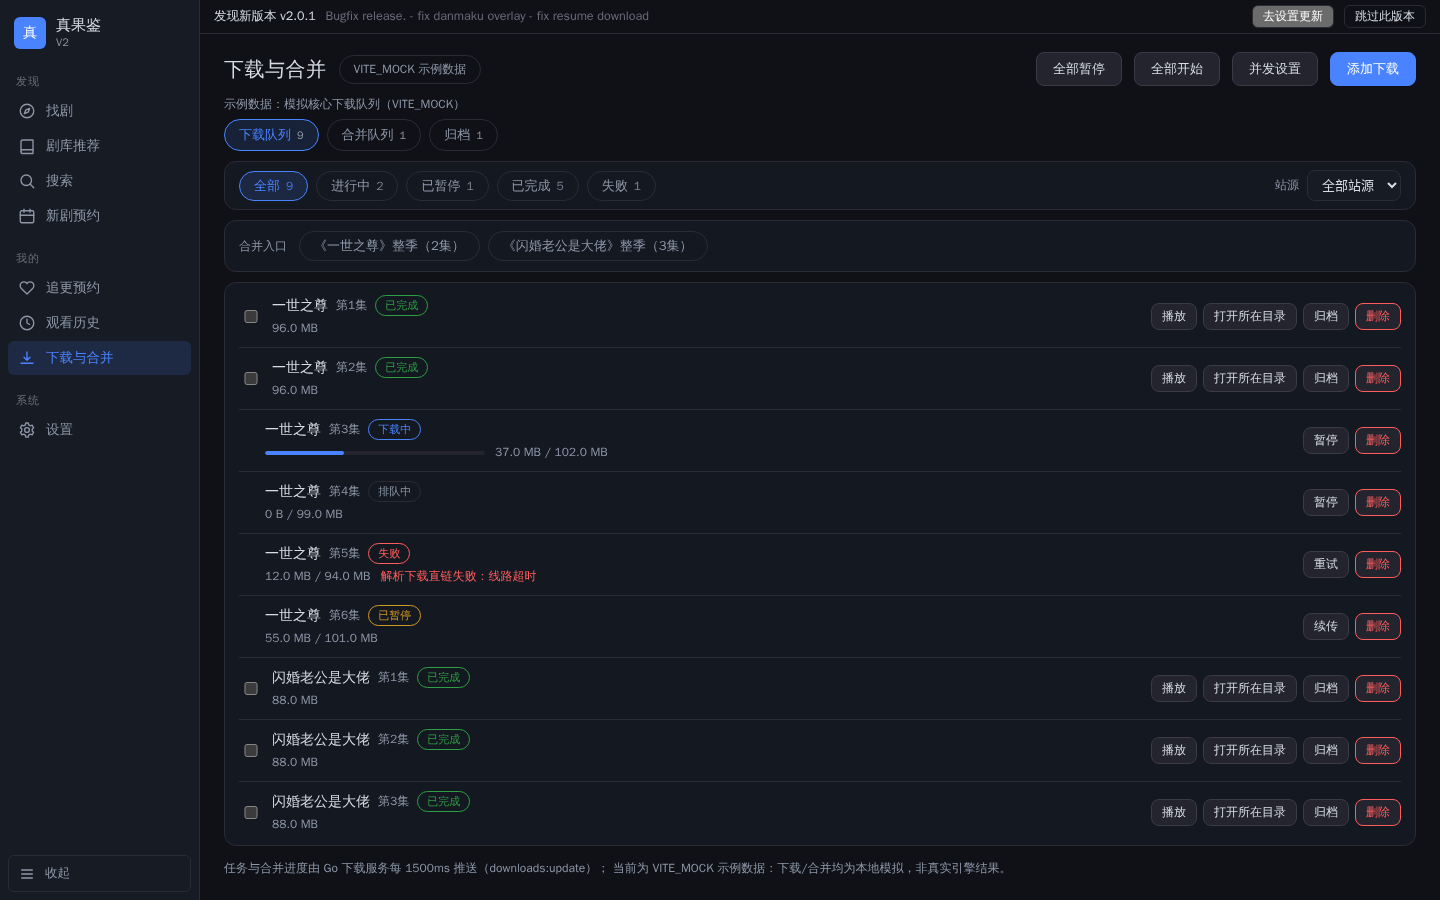
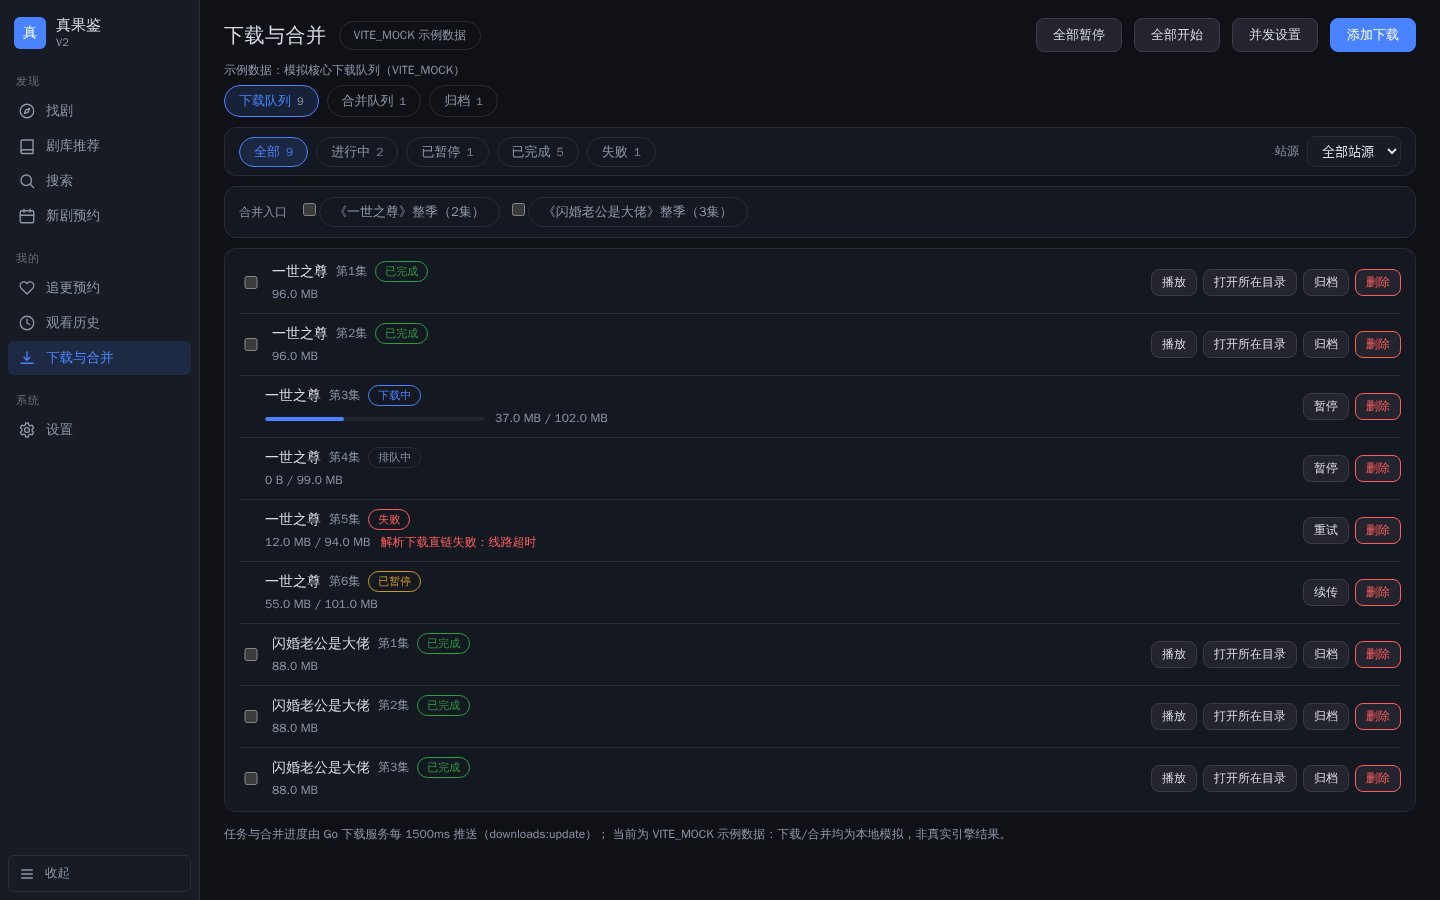
feat(client-v2): 双击「合并」行播放成品（v1 真有的那条）+ 删掉一段照抄来的死代码
先更正事实：v1 没有任何"合并完成后自动播放"的实现
（`grep -rnE "auto_play|autoplay|自动播放"` 全客户端只命中 main.py:2545 一句无关注释；
`_merge_one_done` 与 `_finish_merge_batch` 都只写文本）。
v1 真正做的是**双击**：`downloads.py:1139 itemDoubleClicked` →
`_open_merge_entry` 1495-1498（只认 state=done 且有 output）→ `_play_merged_path` 1631-1640。
v2 之前只把成品路径当文本显示，没有这个入口。

接通方式复用这几天补好的那条路：`api.playerOpenLocal(output, 0)` →
`playerRoute(..., localPath=output)` → 播放器本地分支（不碰 resolve、
选集侧栏不渲染、上下集 disabled、标题「本地播放 <文件名>」）。
`data-testid=merge-row` + `.playable` 标出可双击的行，tooltip 用 v1 原话
「双击这一行可以直接播放」（downloads.py:2095）。

⚠ **删掉了从 v1 抄来的 0.8s 去抖**，也删掉了为它写的断言：
v1 那圈 `if path == last and now - last_at < 0.8: return` 防的是 Qt 的
"a double click reports itself twice"（v1 注释原话）。web 的 `dblclick` 是一次事件，
没有这个现象。我一开始照抄，并给它写了 ⑫——
**把去抖整段摘掉后 ⑫ 照样通过**（实测），那就是恒真断言，
被测的东西在本平台不存在。留一段永不触发、也无法验证的代码配一条永绿的检查，
比不抄更糟。代码与断言都删掉，两处各留一句为什么。
（本任务第四次"绿灯不等于覆盖"：条件式跳过 35 轮、种子值冒充证据 40 轮、
不存在的 testid 40 轮、这次是恒真断言。）

另一处措辞差异登记在对账表：v1 在合并这处说「成品文件不存在：<文件名>」，
在历史/追剧那两处说「本地文件已不存在：<文件名>」——同一件事两句说法。
v2 归一为 `player.localMissing` 一句，是有意的收敛，不是漏做。

验证：typecheck 0、build ✓2.85s、static_scan PASS、i18n_sweep 36/36、
downloads_archive_scan 12/12、`merge_multi_verify` 17 条 ALL PASS（新增 ⑩⑩b⑪a⑪b）。

diff --git a/client-v2/frontend/src/views/DownloadsView.vue b/client-v2/frontend/src/views/DownloadsView.vue
@@ -10,7 +10,7 @@
 import { computed, onMounted, onUnmounted, ref, watch } from 'vue'
 import { useRouter } from 'vue-router'
 import { api, MOCK_MODE } from '@/services/api'
-import type { Chapter, Drama, DownloadEntry, DownloadJobRow } from '@/services/types'
+import type { Chapter, Drama, DownloadEntry, DownloadJobRow, MergeEntryRow } from '@/services/types'
 import { chapterEpisode, playerRoute } from '@/services/dramaRef'
 import { t, tf } from '@/services/i18n'
 import { STAT_GROUPS, statMatch, useDownloadsStore, type StatKey } from '@/stores/downloads'
@@ -218,6 +218,31 @@ async function onMergeMulti() {
   } finally {
     mergingMulti.value = false
   }
+}
+
+/* v1 的双击播放（downloads.py:1139 itemDoubleClicked → _open_merge_entry 1495-1498
+   * → _play_merged_path 1631-1640），v2 之前完全没有这个入口——
+   * 「合并」页签只把成品路径当文本显示出来，看完得自己去开目录。
+   * 走的是本轮刚接通的本地播放那条路（App.PlayerOpenLocal：不 resolve、
+   * 选集侧栏不渲染、上下集禁用、标题「本地播放 <文件名>」）。
+   *
+   * ⚠ 文案：v1 在这里说的是「成品文件不存在：<文件名>」，
+   *   而历史/追剧那两处说的是「本地文件已不存在：<文件名>」——两句不同、同一件事。
+   *   v2 只留一句（`player.localMissing`，由 ApiError.code=local_missing 触发），
+   *   少一句是一处**有意的措辞归一**，不是漏做；这条差异记在
+   *   research/v1-v2-downloads-parity.md，别让下一个人以为还欠一条。
+   *
+   * ⚠ v1 那 0.8s 去抖**没有照搬**：它防的是 Qt 的现象
+   *   （v1 注释原话 "a double click reports itself twice"），
+   *   而 web 的 dblclick 是一次事件，没有"自报两次"这回事。
+   *   我曾把那段去抖抄过来并给它写断言，结果写出一条恒真断言
+   *   （摘掉去抖它也过）——那正说明被测的东西在本平台不存在。
+   *   留着一段永不触发、也无法验证的代码，比不抄更糟。 */
+function onMergeRowDblclick(m: MergeEntryRow) {
+  if (m.state !== 'done' || !m.output) return // v1：别的状态双击不做事
+  void router.push(playerRoute(
+    { id: m.dramaId, title: m.title, source: '', cover: '', episodes: 0 } as Drama,
+    0, 0, null, m.output))
 }
 
 async function onMergeSeason(drama: Drama) {
@@ -781,7 +806,15 @@ async function onEnqueue() {
       <div class="text-muted hint">{{ t('downloads.mergeEmptyHint') }}</div>
     </div>
     <div v-else class="card list">
-      <div v-for="(m, i) in store.merges" :key="m.id" class="row" :class="{ divided: i > 0 }">
+      <div
+        v-for="(m, i) in store.merges"
+        :key="m.id"
+        class="row"
+        :class="{ divided: i > 0, playable: m.state === 'done' && !!m.output }"
+        data-testid="merge-row"
+        :title="m.state === 'done' && m.output ? t('downloads.mergeDblTip') : ''"
+        @dblclick="onMergeRowDblclick(m)"
+      >
         <div class="r-main">
           <div class="r-line1">
             <span class="r-title">{{ m.title }}</span>
@@ -1199,6 +1232,11 @@ async function onEnqueue() {
   font-size: 12px;
   white-space: nowrap;
 }
+/* 双击可播的合并行给一点可点性提示（v1 靠 Qt 行选中态暗示，web 上没说就是猜） */
+.row.playable {
+  cursor: pointer;
+}
+
 .out-path {
   overflow: hidden;
   text-overflow: ellipsis;

diff --git a/client-v2/frontend/src/services/i18n.ts b/client-v2/frontend/src/services/i18n.ts
@@ -329,6 +329,7 @@ const zh: Record<string, string> = {
   'downloads.mergeMultiFew': '请先勾选至少两部要合并的剧集（每部至少完成 2 集）',
   'downloads.mergeMultiNone': '请先勾选要合并的剧集',
   'downloads.mergeMultiAllRunning': '选中的剧都在合并中，没有可排的新任务',
+  'downloads.mergeDblTip': '双击这一行可以直接播放',
   'downloads.mergeGroupPick': '把这部剧加入按季合并',
   'downloads.mergeFail': '合并请求失败，请重试',
   'downloads.mergeSeason': '《{t}》整季（{n}集）',
@@ -1017,6 +1018,7 @@ const en: Record<string, string> = {
   'downloads.mergeMultiFew': 'Tick at least two titles to merge (each needs 2+ finished episodes)',
   'downloads.mergeMultiNone': 'Tick the titles to merge first',
   'downloads.mergeMultiAllRunning': 'All ticked titles are already merging; nothing new was queued',
+  'downloads.mergeDblTip': 'Double-click this row to play it',
   'downloads.mergeGroupPick': 'Add this title to the season batch',
   'downloads.mergeFail': 'Merge request failed, please retry',
   'downloads.mergeSeason': '{t} · Full season ({n} eps)',

diff --git a/client-v2/frontend/verification/merge_multi_verify.py b/client-v2/frontend/verification/merge_multi_verify.py
@@ -190,7 +190,48 @@ def main():
                 check("⑧b en 态 tooltip 是英文（新键必须成对）", False, "同上")
             ctx2.close()
 
-            check("⑨ 全程无 JS 错误", not js_errors, "; ".join(js_errors[:2]))
+            # ── ⑩⑪ 双击「合并」页签里已完成的条目 → 本地播放那个成品 ──
+            # v1 出处：downloads.py:1139 itemDoubleClicked → _open_merge_entry 1495-1498
+            # → _play_merged_path 1631-1640。
+            # ⚠ 这条是我核 v1 代码才挖出来的真差异；我上一轮写进注释的
+            #   "v1 合并完成后自动播放"其实**不存在**（v1 的 docstring 与它自己的代码不符），
+            #   v1 真正做的是"双击播放"，而 v2 之前只把路径当文本显示。
+            page.goto(BASE + "/#/downloads")
+            page.wait_for_selector(".tabs", timeout=25000)
+            page.wait_for_timeout(1400)
+            tabs = page.locator(".tab")
+            tabs.nth(1).click()  # 「合并」页签
+            page.wait_for_selector("[data-testid=merge-row]", timeout=20000)
+            page.wait_for_timeout(1200)
+            rows_n = page.locator("[data-testid=merge-row]").count()
+            playable = page.locator("[data-testid=merge-row].playable")
+            check("⑩a 「合并」页签有行，且已完成的行标成可双击播放",
+                  rows_n >= 1 and playable.count() >= 1,
+                  f"rows={rows_n} playable={playable.count()}")
+            tip10 = playable.first.get_attribute("title") or ""
+            check("⑩b tooltip 用 v1 原话「双击这一行可以直接播放」（downloads.py:2095）",
+                  tip10 == "双击这一行可以直接播放", f"tip={tip10!r}")
+
+            out_path = playable.first.locator(".out-path").inner_text().strip()
+            expect_name = out_path.replace("\\", "/").split("/")[-1]
+            playable.first.dblclick()
+            page.wait_for_selector(".pl-title", timeout=25000)
+            page.wait_for_timeout(2200)
+            title11 = page.locator(".pl-title").inner_text().strip()
+            check("⑪a 双击后播放器标题是「本地播放 <文件名>」（与详情页那条本地播放同一分支）",
+                  title11 == f"本地播放 {expect_name}", f"title={title11!r} 期望={expect_name!r}")
+            check("⑪b 本地会话不渲染选集侧栏（合并成品没有分集概念）",
+                  page.locator(".pl-panel").count() == 0,
+                  f"panel={page.locator('.pl-panel').count()}")
+
+            # ⑫（原本的双击去抖断言）**删掉了**，理由写在 DownloadsView.onMergeRowDblclick 的注释里：
+            # v1 那 0.8s 去抖防的是 Qt 的"a double click reports itself twice"，
+            # web 的 dblclick 是一次事件，没有那个现象。
+            # 我为它写的断言在**摘掉去抖后照样通过**（实测），那就是恒真断言——
+            # 与其留一段永不触发的代码配一条永绿的检查，不如两段都删掉并说明为什么。
+            print("NOTE ⑫（双击去抖）不在这里验证：那是 Qt 现象，web 无对应；已连代码一起删掉")
+
+            check("⑬ 全程无 JS 错误", not js_errors, "; ".join(js_errors[:2]))
             page.screenshot(path=os.path.join(OUT, "merge-multi.png"))
             print("NOTE ⑦ 只验码名一致；「不足两部」的门槛行为由 Go 单测覆盖"
                   "（mock 里界面按钮与门槛条件互斥，没注入点能同时满足——不为此临时改产品代码）")

diff --git a/research/v1-v2-downloads-parity.md b/research/v1-v2-downloads-parity.md
@@ -116,3 +116,28 @@ v1 真有、v2 当时缺的是另一件事：**双击合并队列里已完成的
 `_play_merged_path` 1631-1640，带 0.8s 去抖，文件不在提示
 「成品文件不存在：<文件名>」）。这条现在接上了：v2 走上一轮补好的 `PlayerOpenLocal`，
 `multi.go` 与代码注释里也已把这条更正记进去。
+
+
+## 第四十五轮（下半）：双击播放合并成品接通，并删掉一段照抄来的死代码
+
+`DownloadsView` 的合并行现在 `@dblclick` → 走 `App.PlayerOpenLocal` 本地播放：
+标题「本地播放 <文件名>」、选集侧栏不渲染、上下集禁用 —— 与详情页那条本地播放同一条分支。
+`merge_multi_verify` 加到 17 条（⑩⑪⑬），全绿。
+
+三处措辞/行为差异登记在这里，别让下一个人以为还欠着：
+
+1. **文件不在的提示语**：v1 在合并这一处说「成品文件不存在：<文件名>」
+   （`downloads.py:1639`），在历史/追剧那两处说「本地文件已不存在：<文件名>」
+   （`watch.py:641`）。同一件事两句说法。v2 归一为一句（`player.localMissing`，
+   由 `ApiError.code=local_missing` 触发），是有意的收敛，不是漏做。
+2. **v1 那 0.8s 双击去抖没有照搬**：v1 注释原话是
+   "a double click reports itself twice"（Qt 的现象）。web 的 `dblclick` 是一次事件，
+   没有这回事。我一开始把去抖抄了过来，并为它写断言——
+   **把去抖整段摘掉之后那条断言照样通过**，说明它是一条恒真断言，
+   被测的东西在本平台根本不存在。所以代码与断言一起删掉，
+   并在 `DownloadsView.onMergeRowDblclick` 注释与脚本 ⑫ 位置各写一句为什么。
+   （这是本任务里第四次"绿灯不等于覆盖"：条件式跳过、种子值冒充证据、
+   不存在的 testid、这次是恒真断言。）
+3. **v1 docstring 与它自己的代码矛盾**（上一节已记）：
+   「多季批次完成后不自动播放（reserved for single-season merges）」——
+   v1 里两种合并**都**没有自动播放的实现。
